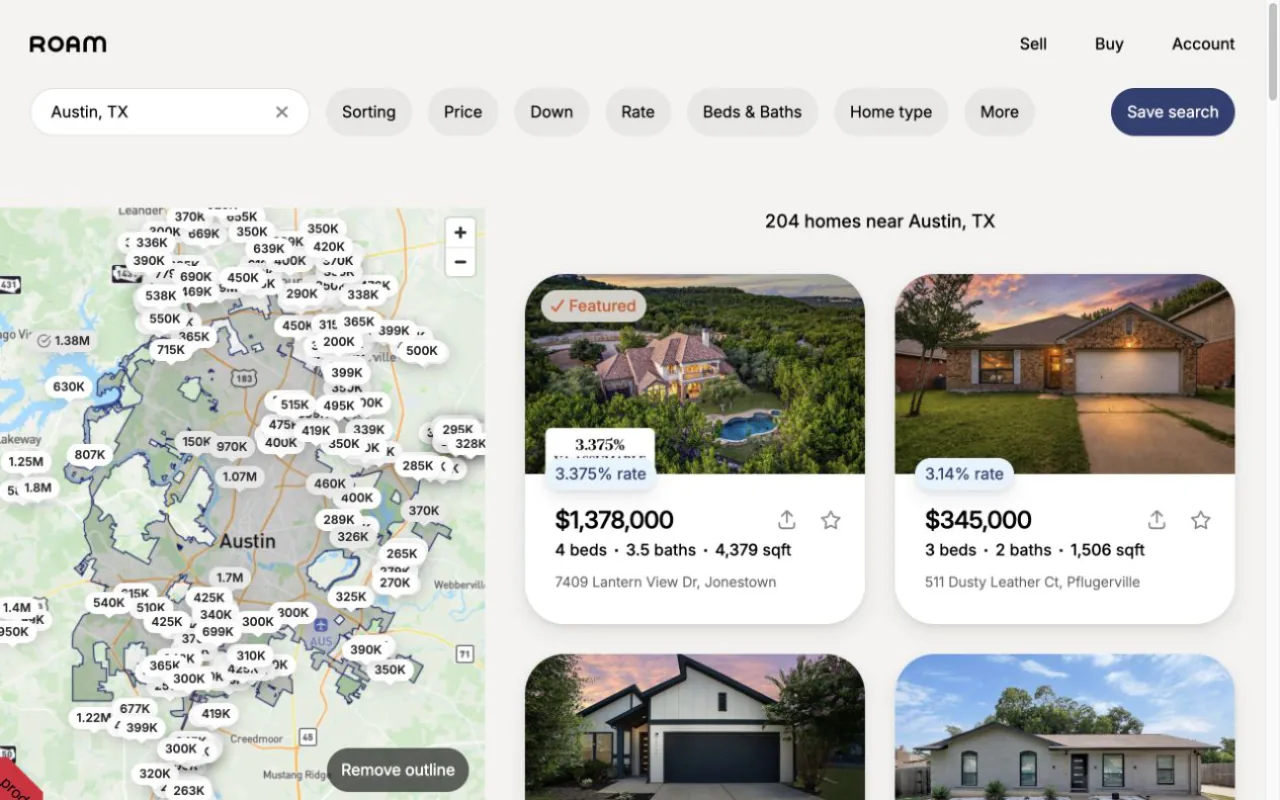
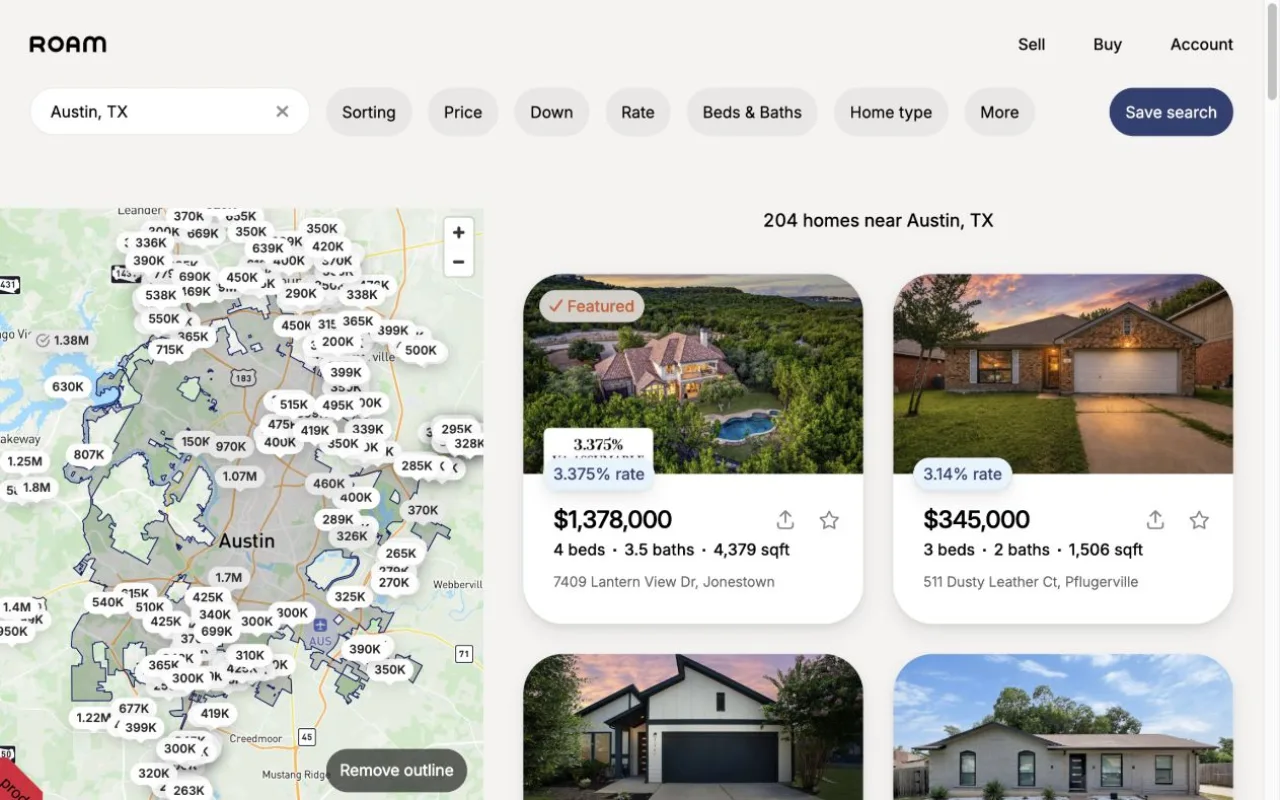
Replace remaining choppy Roam demos

diff --git a/tests/unit/site-data.test.ts b/tests/unit/site-data.test.ts
@@ -248,6 +248,18 @@ test('Roam experience media uses public product screens and a sanitized harness 
   expect(roamWorkSamplesSource).toContain('roam-search-mobile-poster.webp');
   expect(experienceReadme).toContain('roam-search-mobile.*');
   expect(experienceReadme).toContain('roam-calculator.*');
+  expect(experienceReadme).toContain('roam-search.*');
+  expect(experienceReadme).toContain('roam-calculator-mobile.*');
+  for (const mediaName of [
+    'roam-search.mp4',
+    'roam-search.webm',
+    'roam-search-poster.webp',
+    'roam-calculator-mobile.mp4',
+    'roam-calculator-mobile.webm',
+    'roam-calculator-mobile-poster.webp',
+  ]) {
+    expect(readFileSync(`public/media/${mediaName}`).byteLength).toBeGreaterThan(10_000);
+  }
   expect(experienceReadme).toContain('normalized to 30 fps');
   expect(experienceReadme).toContain('ROAM_STORAGE_STATE');
   expect(roamWorkSamplesSource).toContain('data-product-video');

diff --git a/src/assets/experience/README.md b/src/assets/experience/README.md
@@ -4,7 +4,8 @@ These local images and the public video assets in `public/media/` support the Ro
 
 - `public/media/roam-calculator.*` is the authenticated 1280×800 calculator recording rendered on `/about`. Its 30 fps WebM and MP4 encodes show the full desktop navigation—including Account—the assumable 3.96% payment, yearly savings, and the expanded principal, property-tax, and home-insurance details.
 - `public/media/roam-search-mobile.*` is the authenticated 390×844 Austin search recording rendered on `/about`. Captured from a Browser viewport override that exactly matches the inline SVG phone frame and normalized to 30 fps for delivery, it opens the mobile filter sheet, applies a 3.5% maximum rate, updates the visible inventory from 204 to 105 homes, and scrolls the filtered results. The WebM and MP4 encodes share `roam-search-mobile-poster.webp` and fit the phone frame without cropping or blank page space.
-- `public/media/roam-search.*` and `public/media/roam-calculator-mobile.*` remain committed as optional alternates, but are not rendered so the current presentation stays focused.
+- `public/media/roam-search.*` is the optional authenticated 1280×800 desktop search recording. Its 30 fps encodes keep Account and the full filter bar visible while applying the same 3.5% maximum rate, updating the inventory from 204 to 105 homes, and smoothly scrolling the map-and-card results.
+- `public/media/roam-calculator-mobile.*` is the optional authenticated 390×844 mobile calculator recording. Its 30 fps encodes move from the payment sliders into the payment details, then open the property-tax and home-insurance rows. The capture compensates for the listing page's mobile viewport scaling and crops to the exact phone-frame bounds, so no edge is clipped or stretched.
 - `scripts/record-roam-demos.mjs` regenerates the authenticated desktop search and calculator captures at 30 fps, along with WebP posters and MP4 fallbacks when the selected ffmpeg build includes `libx264`. `ROAM_STORAGE_STATE` is required and must point to a deliberately exported Playwright storage-state file; the script never reads the in-app browser's session.
 - `reed-home.jpg` and `reed-chat.jpg` were captured from Reed's public homepage and unauthenticated buyer-start flow.
 - `agent-harness-chat.png` and `agent-harness-subagents.png` were captured from an isolated Mission Control test server. The harness used temporary storage, fake CLIs, and a manually seeded synthetic launch-review transcript; it did not read live Mission Control state.